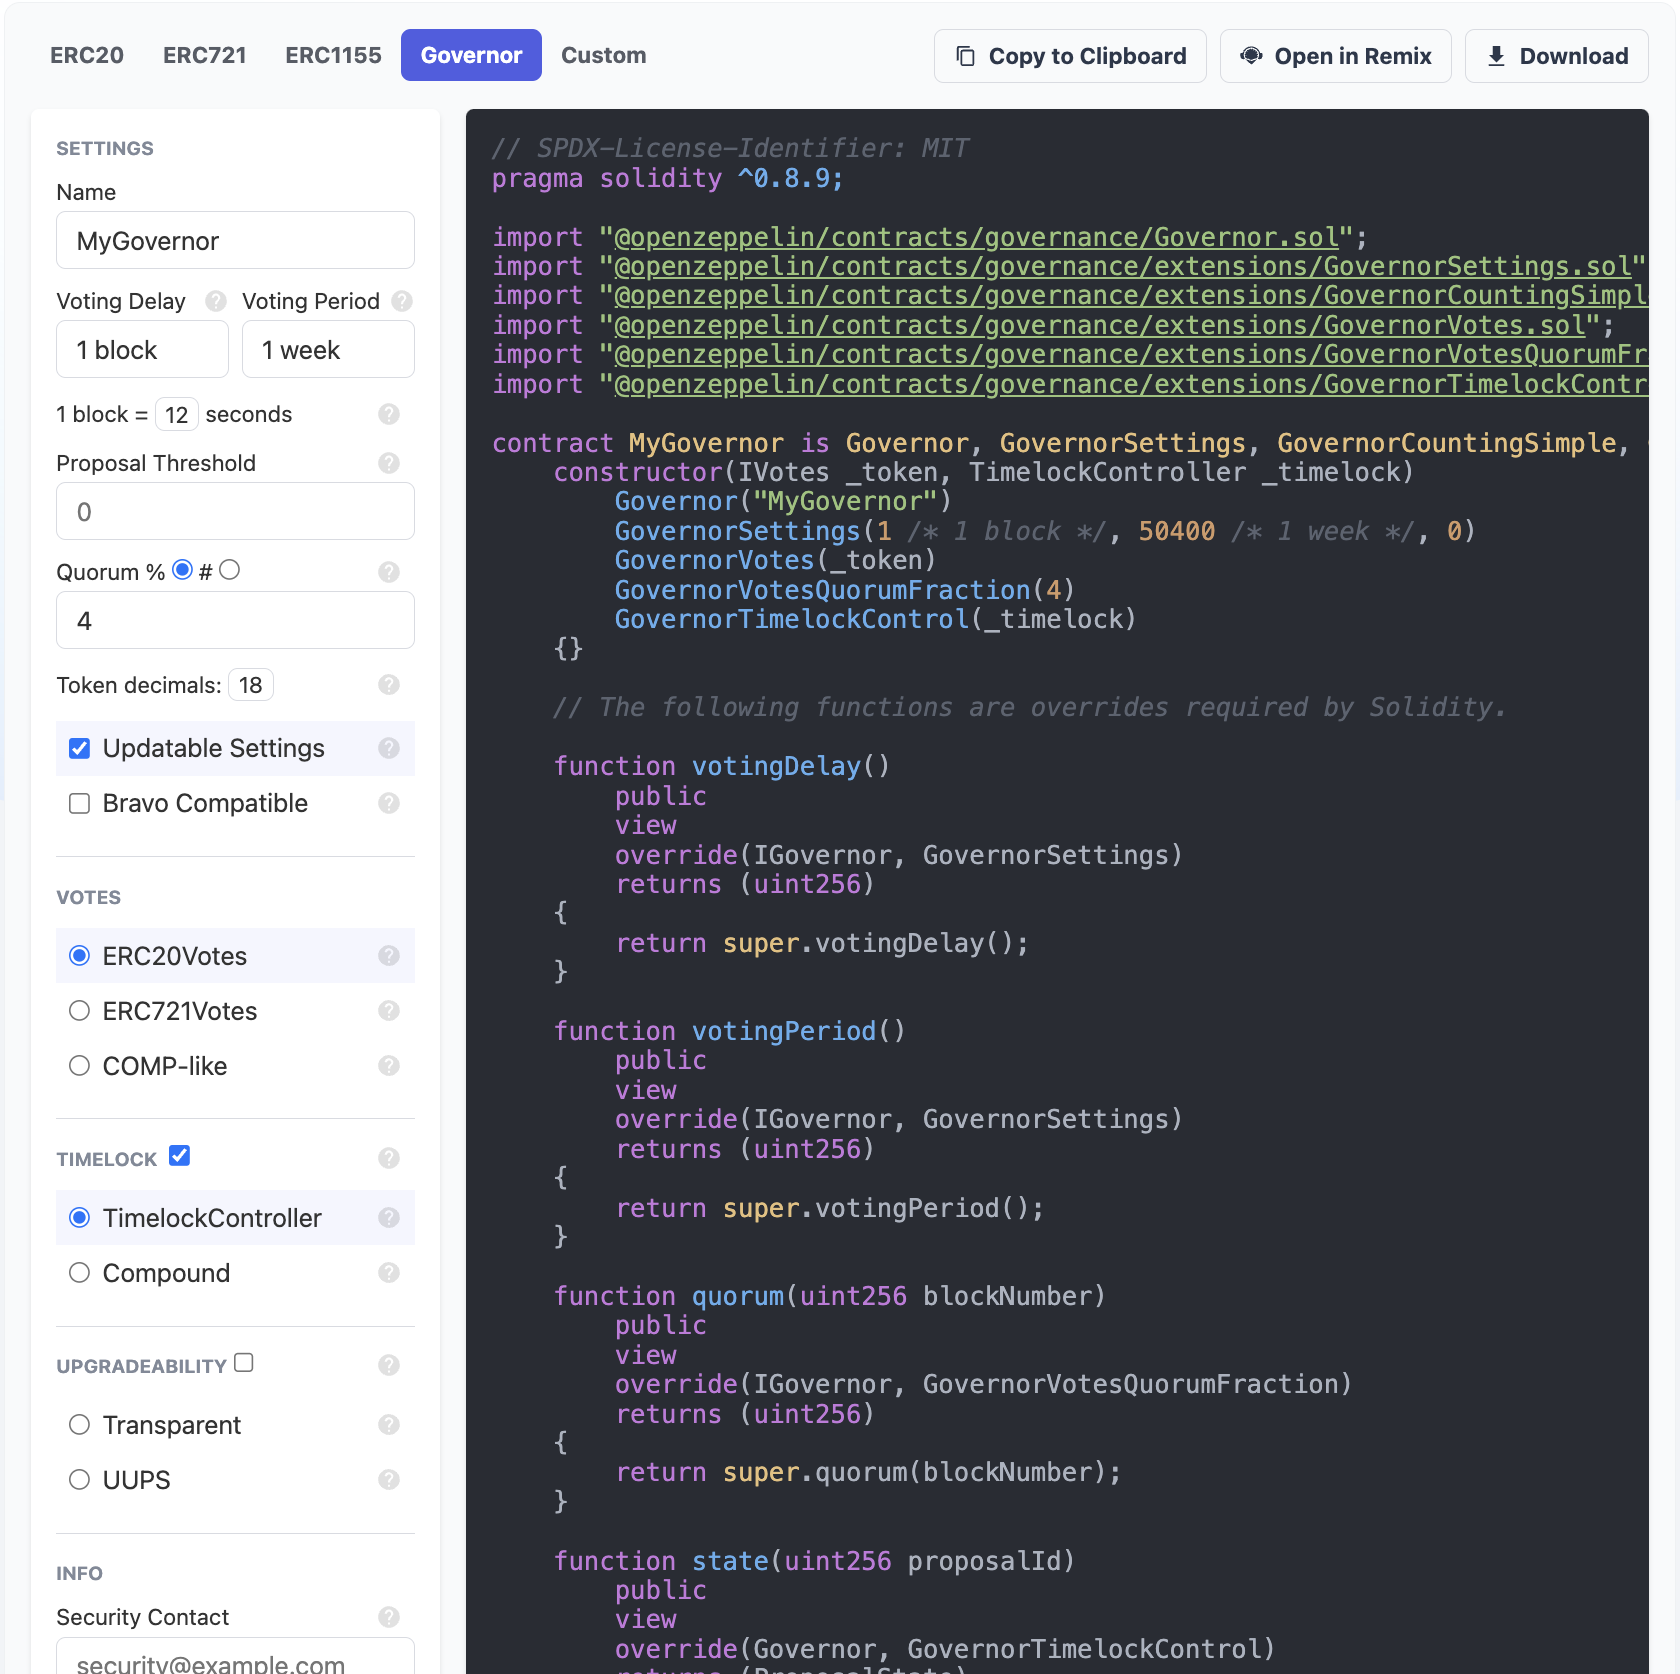
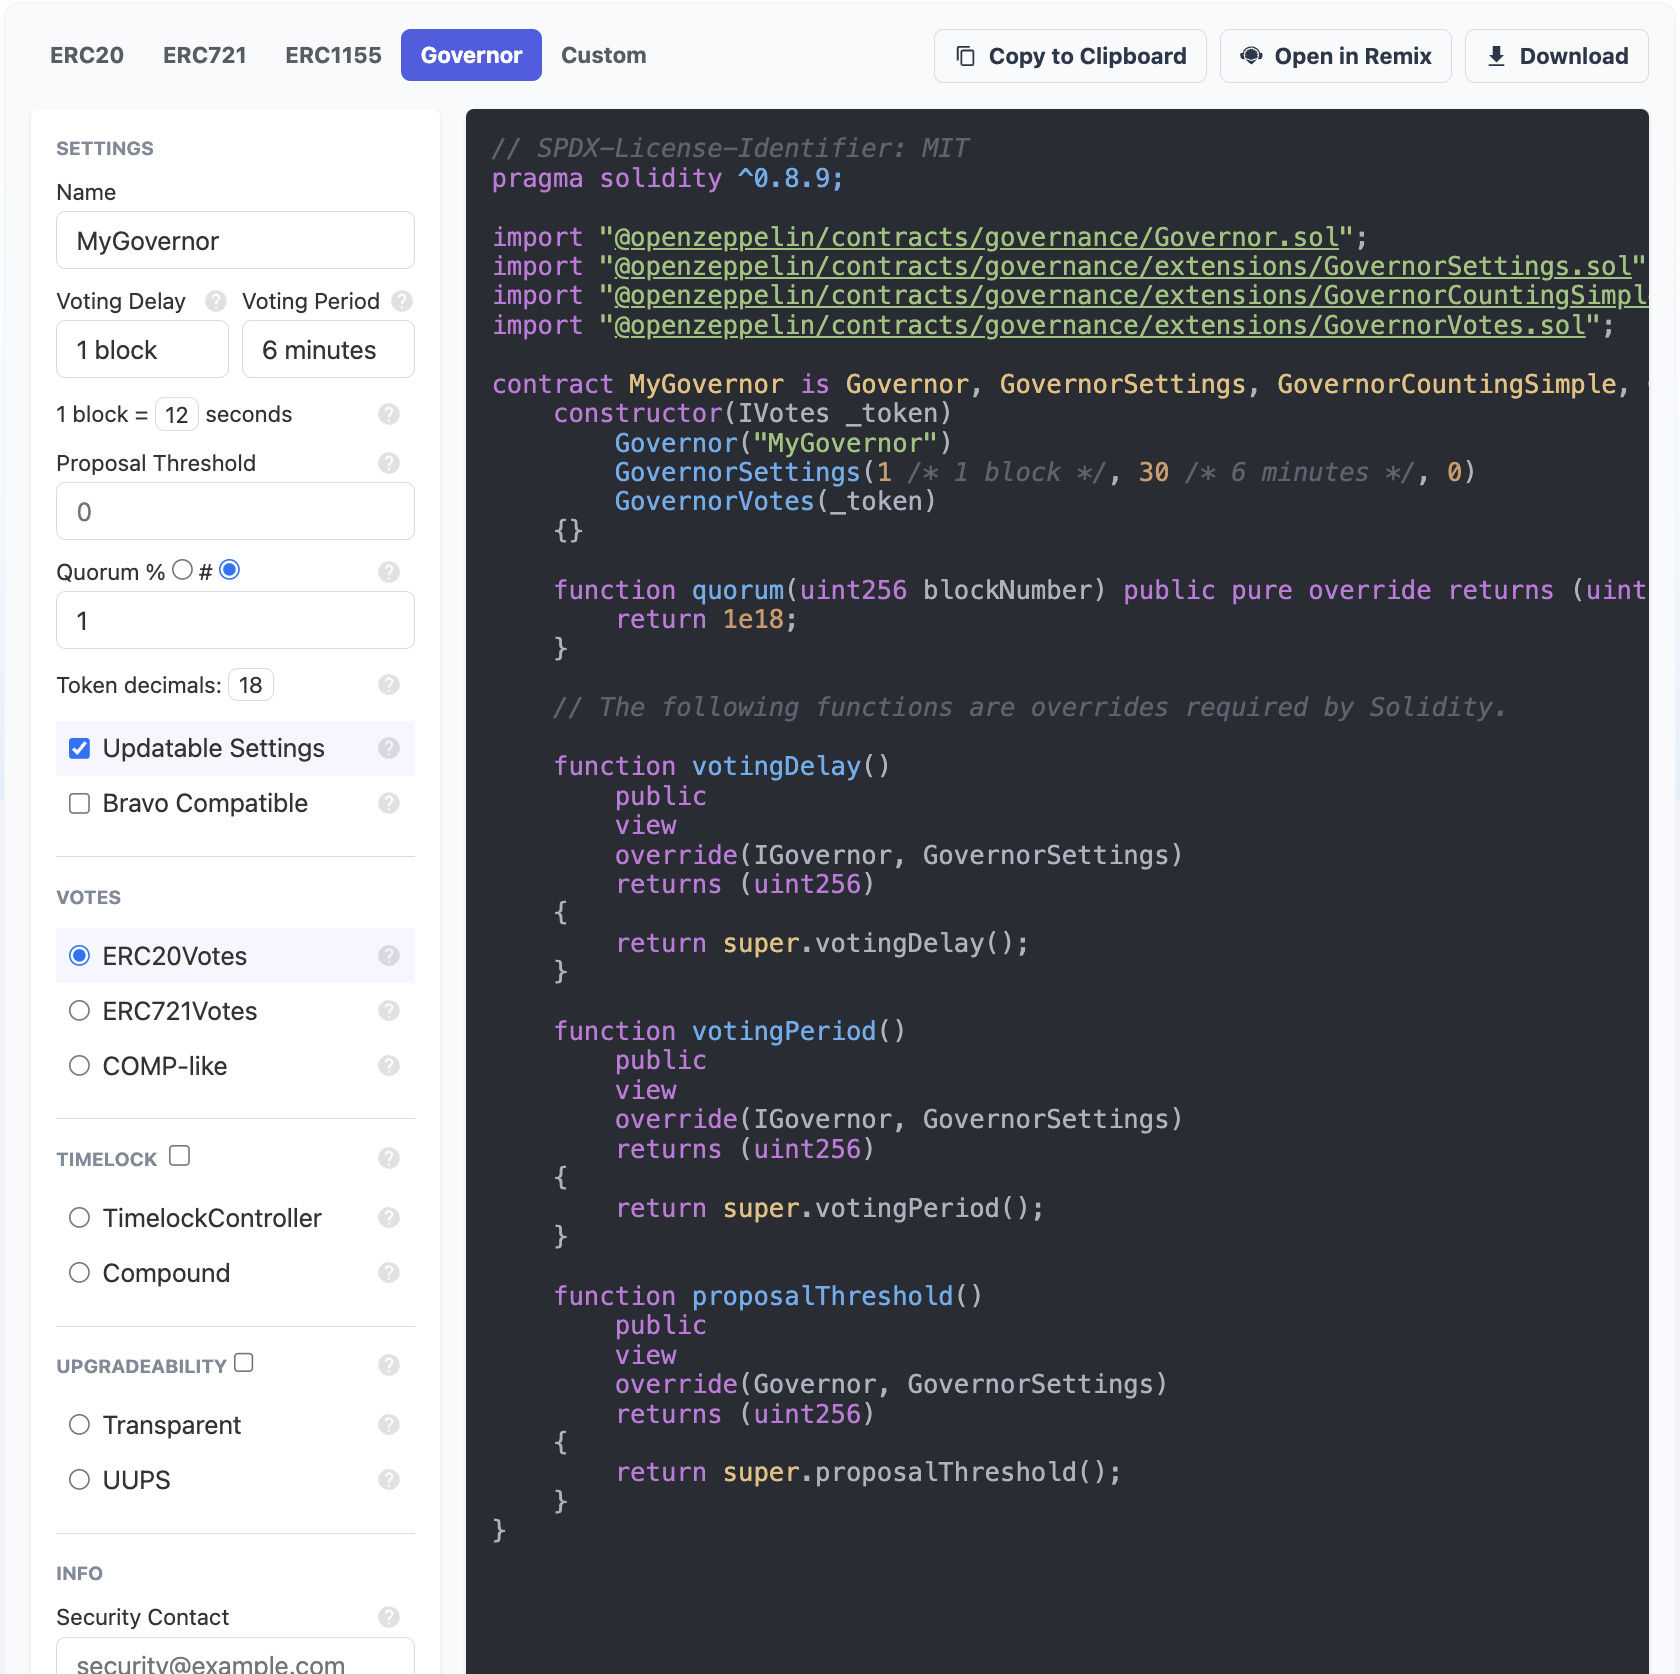
Fixed picture

diff --git a/tutorials/cross-chain-dao.md b/tutorials/cross-chain-dao.md
@@ -56,6 +56,7 @@ Before we look through this, let's first talk a little about cross-chain models.
 The process shown above makes it so that anyone can vote from across chains, so long as they hold the DAO token. We are using a hybrid between a hub-and-spoke and a distributed graph. For holding information that is read-only, we will be storing it on a single chain. Rare one-off actions such as proposals, cancellations, and so on are best done as a hub-and-spoke model. For information regarding voting logic, since users will be voting on multiple chains, voting weight and vote sums will be stored on each spoke chain and only sent to the hub chain after voting is over.  
 
 Let's break down some of the steps in more detail:  
+
 1. **Proposal** — a user proposes that the DAO should execute one or more transactions on the **hub** chain. A cross-chain message is sent to the satellite smart contracts on the **spoke** chains to let them know the parameters of the vote to take place  
 2. **Voting** — after a voting delay time period, a voting period opens, which allows users to vote with their voting weight on every chain. The voting weight is determined by a cross-chain token's balance on each chain at a certain timestamp between the proposal start and end  
 3. **Collection** — after the voting period, the cross-chain DAO on the **hub** chain sends a request to the **spoke** chains to send the voting results of each chain to the **hub** chain  
@@ -72,7 +73,7 @@ A good way to play with the configurations of the Governance smart contract is t
 
 ![OpenZeppelin Contract Wizard](/images/tutorials/cross-chain-dao/cross-chain-dao-3.png)
 
-We're going to try to keep this base smart contract as simple as possible for demonstration purposes. Be sure to disable Timelock, 
+We're going to try to keep this base smart contract as simple as possible for demonstration purposes. So be sure to disable Timelock, since this period is optional anyways. 
 
 
 ## Deploying and Testing {: #deploying-and-testing }
